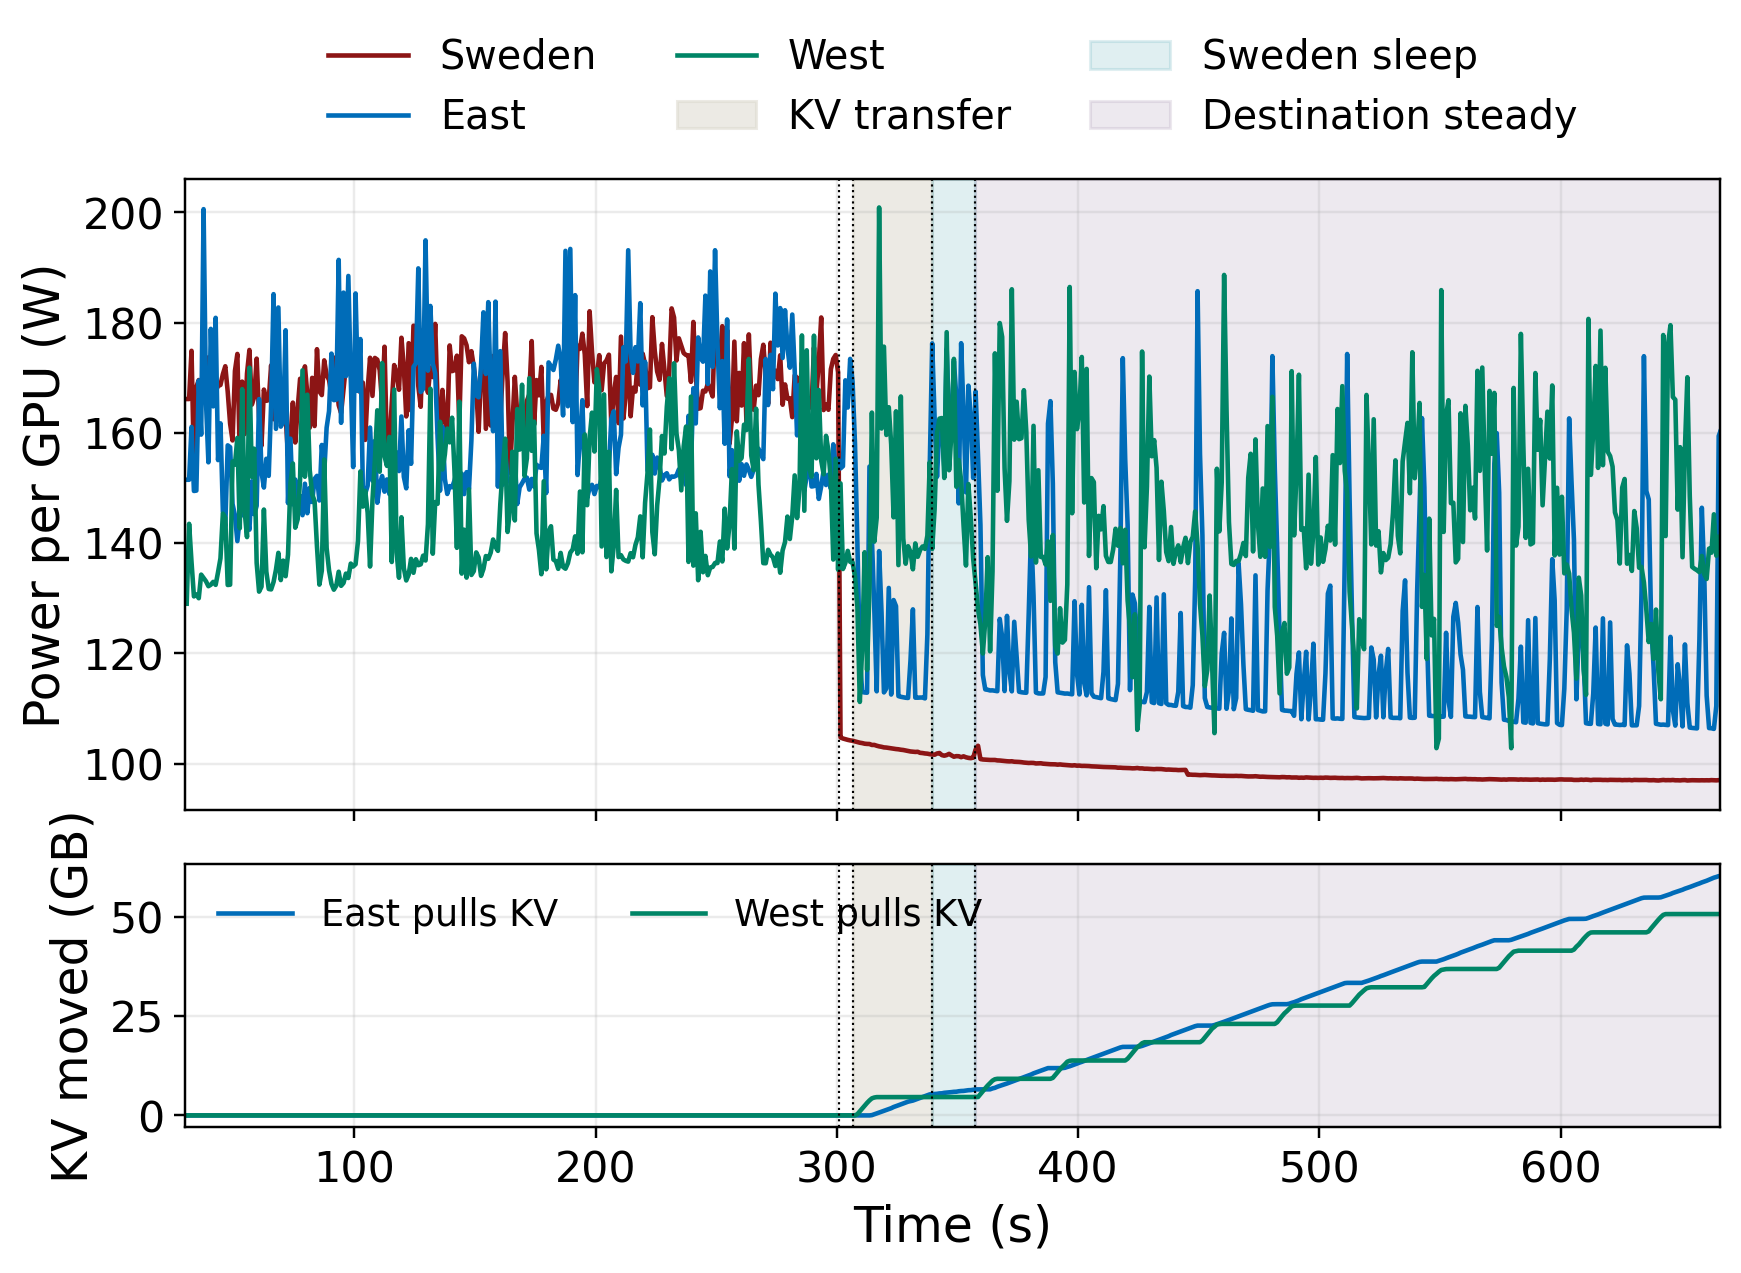
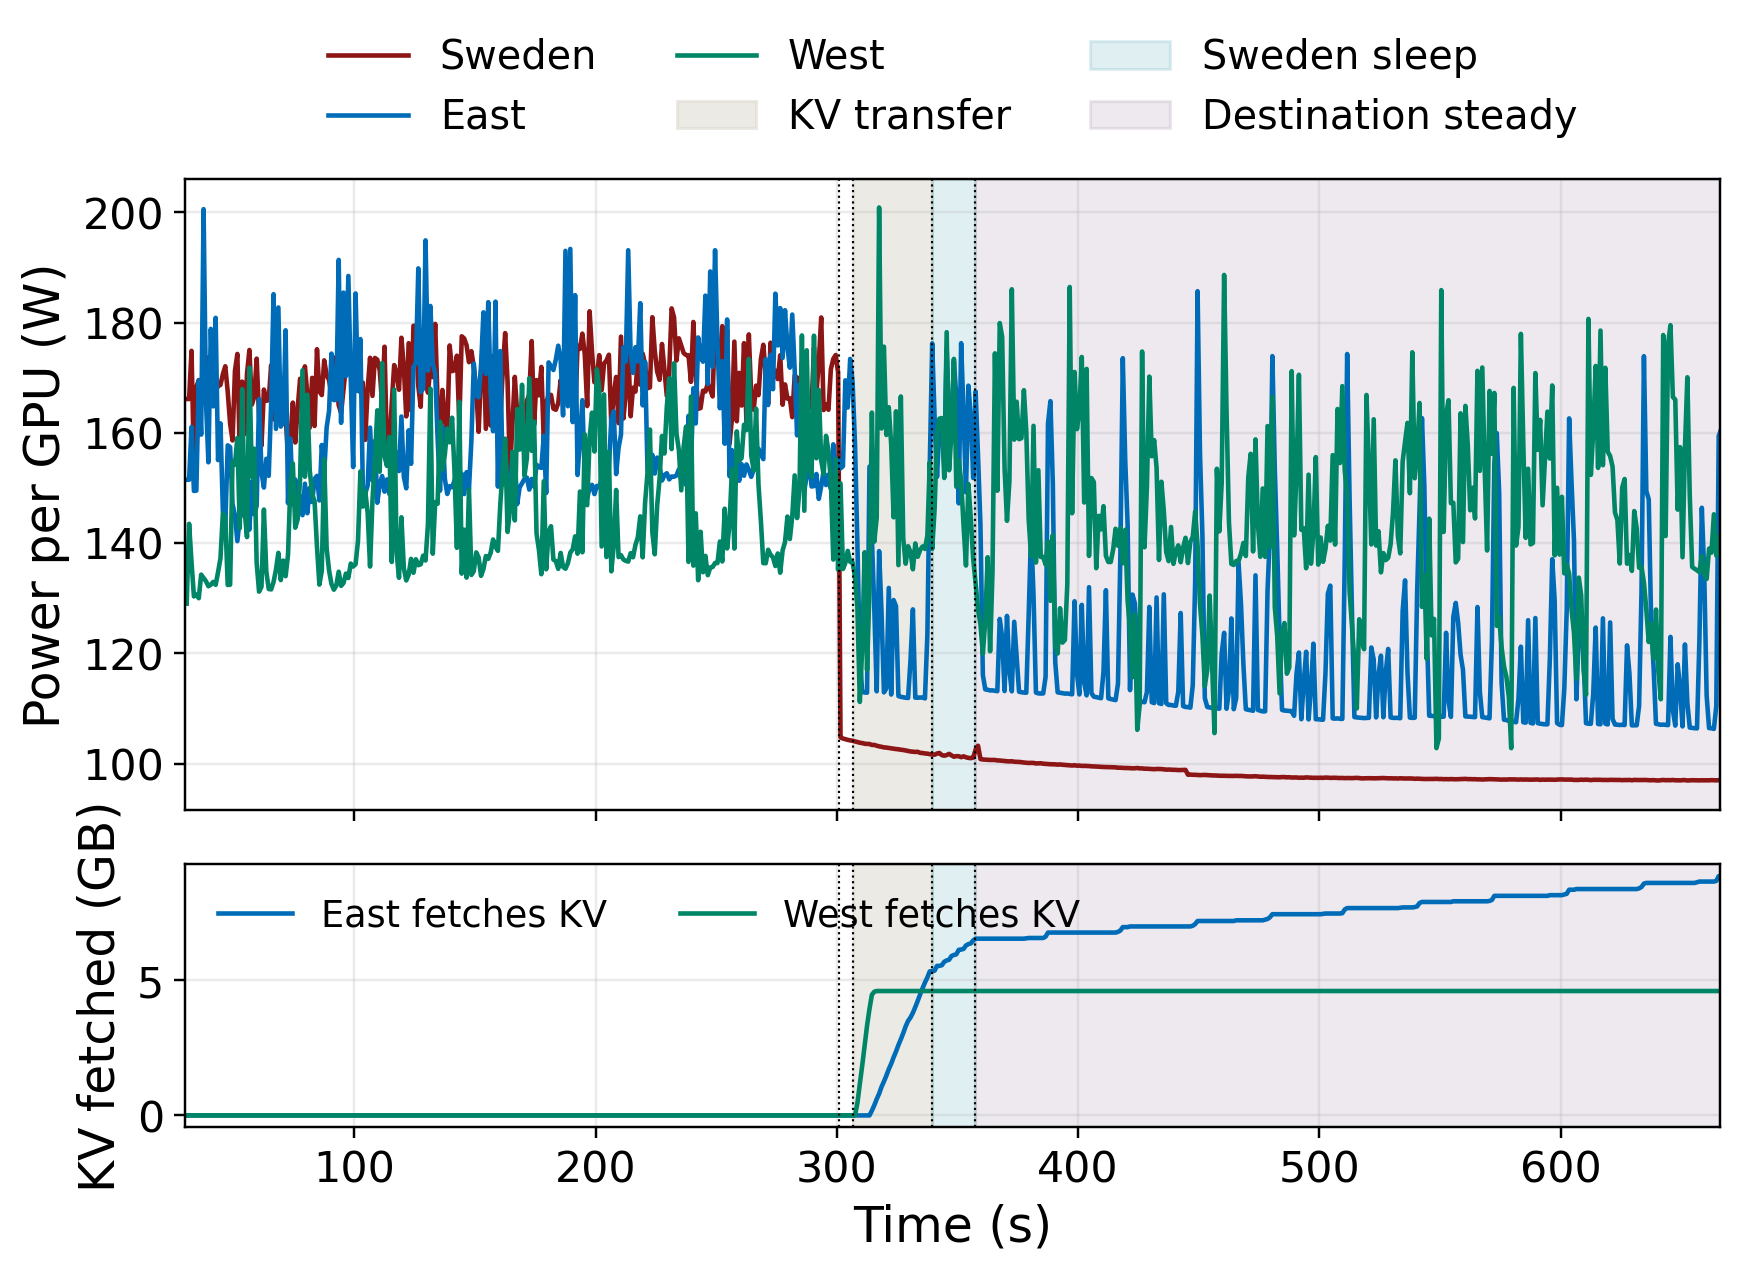
Count each KV chunk once so the panel shows the migration fetch
The proxy byte counters include LMCache re-reads of chunks already pulled,
so the cumulative curve grew all run. Dedupe GET rows by key hash from
resp_transfers.csv and plot first-fetch bytes per destination region.

diff --git a/agent-migrate/queue-haul/plot_handoff_power.py b/agent-migrate/queue-haul/plot_handoff_power.py
@@ -31,17 +31,25 @@ def read_power(path: Path, base_ns: int) -> list[tuple[float, float]]:
             for row in rows]
 
 
-def read_kv(path: Path, base_ns: int) -> dict[tuple[str, str], list[tuple[float, float]]]:
-    series = {}
-    for row in csv.DictReader(path.open()):
-        pool, _, node = row["route"].partition("/")
+def read_fetches(run_root: Path, base_ns: int) -> dict[str, list[tuple[float, float]]]:
+    """Cumulative-ready first fetch of each KV chunk, by destination region."""
+    route = {row["connection_id"]: row["route"] for row
+             in csv.DictReader((run_root / "proxy_connections.csv").open())}
+    rows = sorted((row for row
+                   in csv.DictReader((run_root / "resp_transfers.csv").open())
+                   if row["command"] == "GET"), key=lambda row: int(row["end_ns"]))
+    series, seen = {}, set()
+    for row in rows:
+        if row["key_hashes"] in seen:
+            continue
+        seen.add(row["key_hashes"])
+        pool, _, node = route[row["connection_id"]].partition("/")
         if pool != "kv":
             continue
-        seconds = (int(row["wall_ns"]) - base_ns) / 1e9
-        series.setdefault((node, row["direction"]), []).append(
-            (seconds, int(row["bytes"]) / 1e6))
+        series.setdefault(node, []).append(
+            ((int(row["end_ns"]) - base_ns) / 1e9, int(row["payload_bytes"]) / 1e6))
     if not series:
-        raise ValueError(f"no kv routes in {path}")
+        raise ValueError(f"no kv fetches in {run_root}")
     return series
 
 
@@ -133,7 +141,7 @@ def reduce(run_root: Path) -> list[dict]:
     marker = {name: (phase["wall_ns"] - base) / 1e9
               for name, phase in phases.items()}
     xlim = (PLOT_START_S, marker["post_end"])
-    kv = read_kv(run_root / "proxy_bytes.csv", base)
+    kv = read_fetches(run_root, phases["pre_start"]["monotonic_ns"])
     plt.style.use("default")
     figure, (top, bottom) = plt.subplots(
         2, 1, figsize=(9, 5.6), sharex=True, height_ratios=(2.4, 1),
@@ -142,8 +150,8 @@ def reduce(run_root: Path) -> list[dict]:
         top.plot(*bin_mean(read_power(path, base)), lw=1.5,
                  color=COLORS[node], label=node.title())
     for node in paths.keys() - {"sweden"}:
-        bottom.plot(*cumulative(kv[(node, "target_to_client")], xlim[1]), lw=1.5,
-                    color=COLORS[node], label=f"{node.title()} pulls KV")
+        bottom.plot(*cumulative(kv[node], xlim[1]), lw=1.5,
+                    color=COLORS[node], label=f"{node.title()} fetches KV")
     for axis in (top, bottom):
         for label, start, end, color, alpha in SPANS:
             if start in marker and end in marker:
@@ -153,7 +161,7 @@ def reduce(run_root: Path) -> list[dict]:
             if name in marker:
                 axis.axvline(marker[name], color="black", lw=.7, ls=":")
     style(top, xlim, "Power per GPU (W)")
-    style(bottom, xlim, "KV moved (GB)")
+    style(bottom, xlim, "KV fetched (GB)")
     bottom.set_xlabel("Time (s)", size=16)
     top.legend(frameon=False, fontsize=13, loc="upper center",
                bbox_to_anchor=(.5, 1.28), ncol=3)

diff --git a/agent-migrate/queue-haul/tests/test_plot_handoff_power.py b/agent-migrate/queue-haul/tests/test_plot_handoff_power.py
@@ -1,3 +1,14 @@
+"""
+Claim:
+Handoff plots align per-region power and unique KV fetches to event timestamps.
+
+Plausible wrong implementations:
+- use wall time for monotonic transfer timestamps
+- count duplicate KV chunks more than once
+- assign a destination's samples to the wrong region
+- aggregate power across regions instead of within each region and second
+"""
+
 import csv
 import json
 
@@ -5,7 +16,7 @@ import plot_handoff_power as p
 
 
 def test_reduce_aligns_power_regions_and_queue_depth(tmp_path):
-    phases = {name: {"wall_ns": value} for name, value in {
+    phases = {name: {"wall_ns": value, "monotonic_ns": value} for name, value in {
         "pre_start": 1_000_000_000, "pre_end": 2_000_000_000,
         "handoff_start": 2_000_000_000, "handoff_end": 2_500_000_000,
         "switch_start": 2_500_000_000, "traffic_switched": 2_500_100_000,
@@ -38,18 +49,18 @@ def test_reduce_aligns_power_regions_and_queue_depth(tmp_path):
                              "vllm:num_requests_waiting"))
             for index, moment in enumerate(moments):
                 writer.writerow((moment, index + 1, index))
-    with (tmp_path / "proxy_bytes.csv").open("w", newline="") as handle:
+    with (tmp_path / "proxy_connections.csv").open("w", newline="") as handle:
         writer = csv.writer(handle)
-        writer.writerow(("monotonic_ns", "wall_ns", "interval_ns", "connection_id",
-                         "route", "direction", "bytes", "billed"))
-        writer.writerow((0, 1_500_000_000, 250_000_000, "a", "kv/east",
-                         "client_to_target", 1000, 1))
-        writer.writerow((0, 2_500_000_000, 250_000_000, "a", "kv/east",
-                         "target_to_client", 2000, 1))
-        writer.writerow((0, 2_500_000_000, 250_000_000, "b", "kv/germany",
-                         "target_to_client", 3000, 1))
-        writer.writerow((0, 1_500_000_000, 250_000_000, "b", "kv/west",
-                         "client_to_target", 4000, 1))
+        writer.writerow(("connection_id", "route"))
+        writer.writerows((("a", "kv/east"), ("b", "kv/germany")))
+    with (tmp_path / "resp_transfers.csv").open("w", newline="") as handle:
+        writer = csv.writer(handle)
+        writer.writerow(("connection_id", "command", "key_hashes", "end_ns",
+                         "payload_bytes"))
+        writer.writerows((("a", "GET", "k1", 2_500_000_000, 2000),
+                          ("a", "GET", "k1", 2_600_000_000, 2000),
+                          ("b", "GET", "k2", 2_500_000_000, 3000),
+                          ("b", "SET", "k3", 1_500_000_000, 4000)))
 
     rows = p.reduce(tmp_path)
 
@@ -62,3 +73,5 @@ def test_reduce_aligns_power_regions_and_queue_depth(tmp_path):
         queue = list(csv.DictReader(handle))
     assert len(queue) == 12
     assert (tmp_path / "power_handoff.png").is_file()
+    assert p.read_fetches(tmp_path, 1_000_000_000) == {
+        "east": [(1.5, 0.002)], "germany": [(1.5, 0.003)]}
